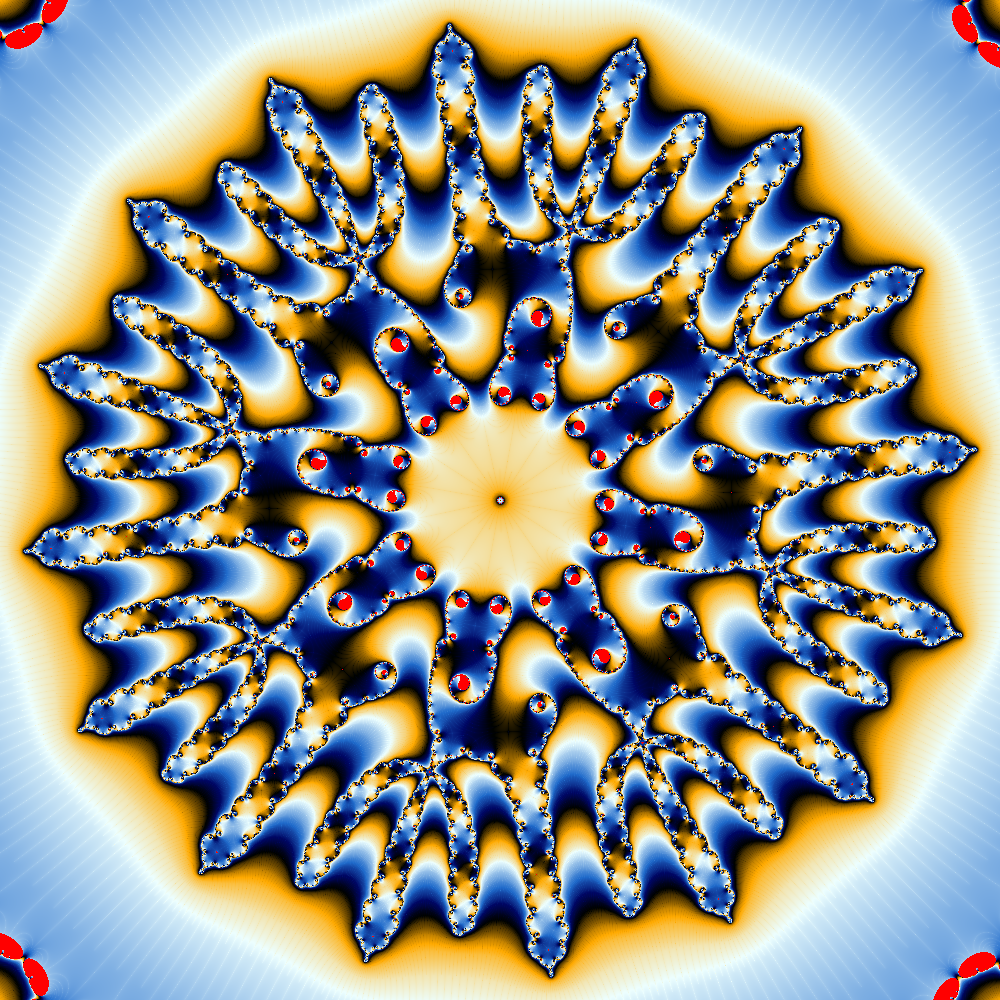
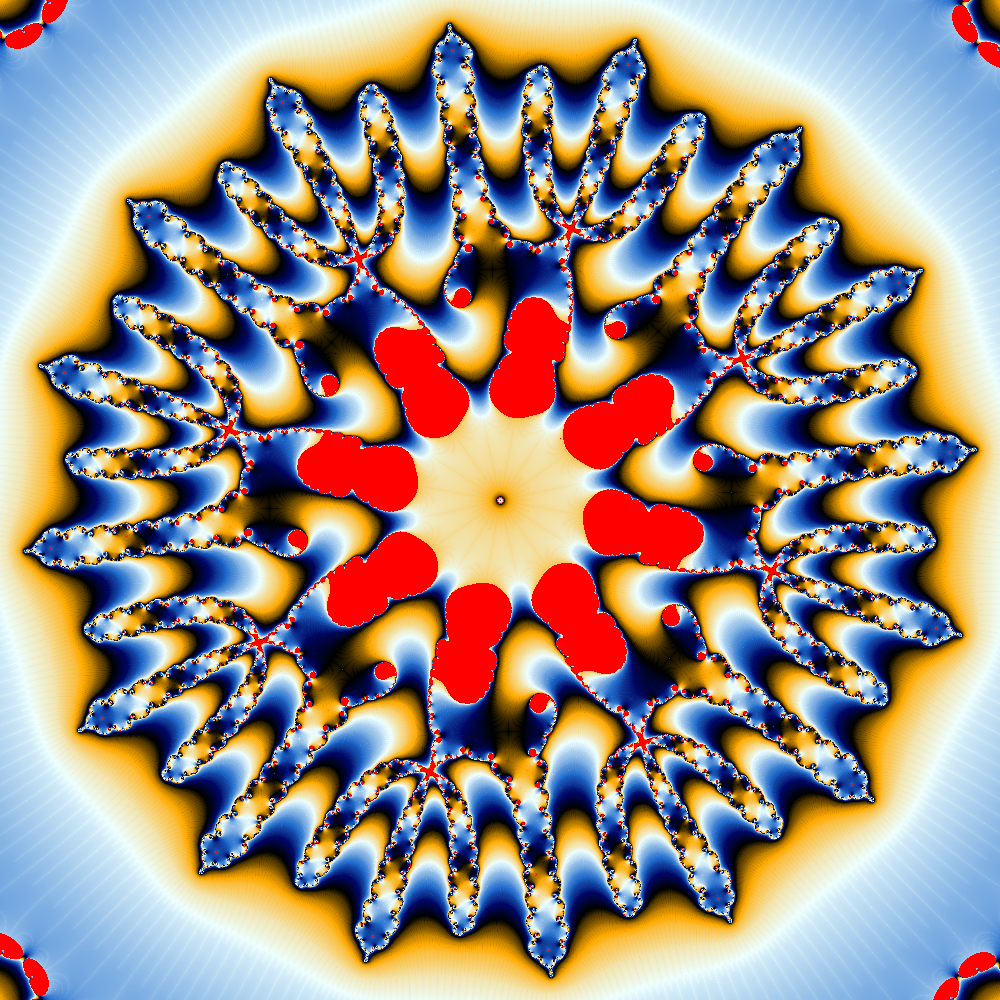
Began work to add in series approximation.

diff --git a/src/renderer.rs b/src/renderer.rs
@@ -2,10 +2,12 @@ use std::time::Instant;
 use rand::seq::SliceRandom;
 use pbr::ProgressBar;
 use std::io::Stdout;
+use mantexp::mantexp_complex::MantExpComplex;
 
 use crate::util::{ComplexFixed, ComplexArbitrary};
 use crate::util::point::Point;
 use crate::colouring::ColourMethod;
+use mantexp::mantexp::MantExp;
 
 enum DeltaType {
     Float32,
@@ -30,6 +32,9 @@ pub struct ImageRenderer {
     progress: ProgressBar<Stdout>,
     delta_type: DeltaType,
     precision: usize,
+    num_coefficients: usize,
+    coefficients: Vec<Vec<MantExpComplex>>,
+
 }
 
 impl ImageRenderer {
@@ -72,7 +77,9 @@ impl ImageRenderer {
             colouring_method: ColourMethod::Iteration,
             progress: ProgressBar::new((image_width * image_height) as u64),
             delta_type,
-            precision
+            precision,
+            num_coefficients: 3,
+            coefficients: Vec::new()
         }
     }
 
@@ -113,8 +120,45 @@ impl ImageRenderer {
             let start = Instant::now();
             self.calculate_reference();
             reference_time += start.elapsed().as_millis();
+
+            let mut temp_iterations = 0;
+
+            if self.reference_points == 1 && false {
+                let skipped_iterations = self.calculate_series(top_left_delta);
+                println!("Series approximation skipped: {}", skipped_iterations);
+                temp_iterations = skipped_iterations;
+
+                if skipped_iterations != 0 {
+                    for point in &mut points_remaining_f64 {
+                        let mut d0_to_the = Vec::with_capacity(self.num_coefficients + 1);
+                        d0_to_the.push(MantExpComplex::new(
+                            MantExp::new(point.delta.re, 1),
+                            MantExp::new(point.delta.im, 1)));
+
+                        d0_to_the[0].reduce();
+
+                        for i in 1..self.num_coefficients {
+                            d0_to_the.push(d0_to_the[i - 1].clone() * d0_to_the[0].clone());
+                            d0_to_the[i].reduce();
+                            // there is a reduce here?
+                        }
+
+                        let mut delta_sub_n = MantExpComplex::new(
+                            MantExp::new(0.0, 0),
+                            MantExp::new(0.0, 0));
+
+                        for i in 0..self.num_coefficients {
+                            delta_sub_n = delta_sub_n + (self.coefficients[i][skipped_iterations] * d0_to_the[i]);
+                        }
+                        point.delta = delta_sub_n.to_complex();
+                    }
+                }
+            }
+
+            // go through all points and set the delta to the new delta by series approximation
+
             let start = Instant::now();
-            self.calculate_perturbations_f64_vectorised(&mut points_remaining_f64, &mut points_complete_f64);
+            self.calculate_perturbations_f64_vectorised(&mut points_remaining_f64, &mut points_complete_f64, temp_iterations);
             iteration_time += start.elapsed().as_millis();
             self.progress.set(points_complete_f64.len() as u64);
         }
@@ -156,5 +200,81 @@ impl ImageRenderer {
 
             z = z.square() + &self.reference
         }
+    }
+
+    pub fn calculate_series(&mut self, top_left_delta: ComplexFixed<f64>) -> usize {
+        if self.num_coefficients < 2 {
+            return 0;
+        }
+
+        if self.num_coefficients > 5 {
+            self.num_coefficients = 5;
+        }
+
+        let mut d0_to_the = Vec::with_capacity(self.num_coefficients + 1);
+        d0_to_the.push(MantExpComplex::new(
+            MantExp::new(top_left_delta.re, 1),
+            MantExp::new(top_left_delta.im, 1)));
+
+        d0_to_the[0].reduce();
+
+        for i in 1..self.num_coefficients {
+            d0_to_the.push(d0_to_the[i - 1].clone() * d0_to_the[0].clone());
+            d0_to_the[i].reduce();
+            // there is a reduce here?
+        }
+
+        self.coefficients = vec!(vec![MantExpComplex::new(
+            MantExp::new(0.0, 1),
+            MantExp::new(0.0, 1)); self.x_n_f64.len()]; self.num_coefficients);
+
+        self.coefficients[0][0] = MantExpComplex::new(
+            MantExp::new(1.0, 1),
+            MantExp::new(0.0, 1));
+
+        let tol = 2.0f64.powf(-64.0);
+
+        for i in 1..self.x_n_f64.len() {
+            if self.num_coefficients >= 1 {
+                // temp here need to override f64
+                self.coefficients[0][i] = (self.coefficients[0][i - 1].clone() * self.x_n_f64[i - 1] * 2.0) + MantExpComplex::new(MantExp::new(1.0, 1), MantExp::new(0.0, 1));
+            }
+            if self.num_coefficients >= 2 {
+                self.coefficients[1][i] = (self.coefficients[1][i - 1].clone() * self.x_n_f64[i - 1] * 2.0) + self.coefficients[0][i - 1].clone() * self.coefficients[0][i - 1].clone();
+            }
+            if self.num_coefficients >= 3 {
+                self.coefficients[2][i] = (self.coefficients[2][i - 1].clone() * self.x_n_f64[i - 1] * 2.0) + (self.coefficients[1][i - 1].clone() * self.coefficients[0][i - 1].clone() * 2.0);
+            }
+            if self.num_coefficients >= 4 {
+                self.coefficients[3][i] = (self.coefficients[3][i - 1].clone() * self.x_n_f64[i - 1] * 2.0) + (self.coefficients[0][i - 1].clone() * self.coefficients[2][i - 1].clone() * 2.0) + self.coefficients[1][i - 1].clone() * self.coefficients[1][i - 1].clone();
+            }
+            if self.num_coefficients >= 5 {
+                self.coefficients[4][i] = (self.coefficients[4][i - 1].clone() * self.x_n_f64[i - 1] * 2.0) + (self.coefficients[0][i - 1].clone() * self.coefficients[3][i - 1].clone() * 2.0) + (self.coefficients[1][i - 1].clone() * self.coefficients[2][i - 1].clone() * 2.0);
+            }
+
+            for j in 0..self.num_coefficients {
+                self.coefficients[j][i].reduce();
+            }
+
+            if ((self.coefficients[self.num_coefficients - 2][i] * d0_to_the[self.num_coefficients - 2]).norm_mantexp() * tol).compare_lt(&mut (self.coefficients[self.num_coefficients - 1][i] * d0_to_the[self.num_coefficients - 1]).norm_mantexp()) {
+                return if i <= 3 {
+                    for j in 0..self.num_coefficients {
+                        self.coefficients[j].truncate(0);
+                    }
+                    0
+                } else {
+                    for j in 0..self.num_coefficients {
+                        self.coefficients[j].truncate(i);
+                    }
+                    i - 3
+                }
+            }
+        }
+
+        for j in 0..self.num_coefficients {
+            self.coefficients[j].truncate(self.x_n_f64.len());
+        }
+
+        self.x_n_f64.len() - 1
     }
 }

diff --git a/src/math/perturbation_f64_vectorised.rs b/src/math/perturbation_f64_vectorised.rs
@@ -6,7 +6,12 @@ use packed_simd::*;
 use crate::util::ComplexFixed;
 
 impl ImageRenderer {
-    pub fn calculate_perturbations_f64_vectorised(&self, points_remaining: &mut Vec<Point<ComplexFixed<f64>>>, points_complete: &mut Vec<Point<ComplexFixed<f64>>>) {
+    pub fn calculate_perturbations_f64_vectorised(&self, points_remaining: &mut Vec<Point<ComplexFixed<f64>>>, points_complete: &mut Vec<Point<ComplexFixed<f64>>>, start_iteration: usize) {
+
+
+
+
+
         // here we pack the points into vectorised points
         // possibly only works on image sizes that are multiples of the vector lanes
         // investigate adding this earlier so that the vector of points never needs to be constructed
@@ -31,7 +36,7 @@ impl ImageRenderer {
                  let mut glitched = m64x4::splat(false);
                  let mut escaped = m64x4::splat(false);
 
-                 for iteration in 0..self.maximum_iterations {
+                 for iteration in start_iteration..self.maximum_iterations {
                      let temp = delta_n;
                      delta_n += ComplexVector::<f64x4>::splat(  self.x_n_f64[iteration] * 2.0);
                      delta_n *= temp;

diff --git a/src/bin/main.rs b/src/bin/main.rs
@@ -31,7 +31,7 @@ fn main() {
         center.0,
         center.1,
         1000,
-        0.01,
+        0.99,
         true
     );
 
